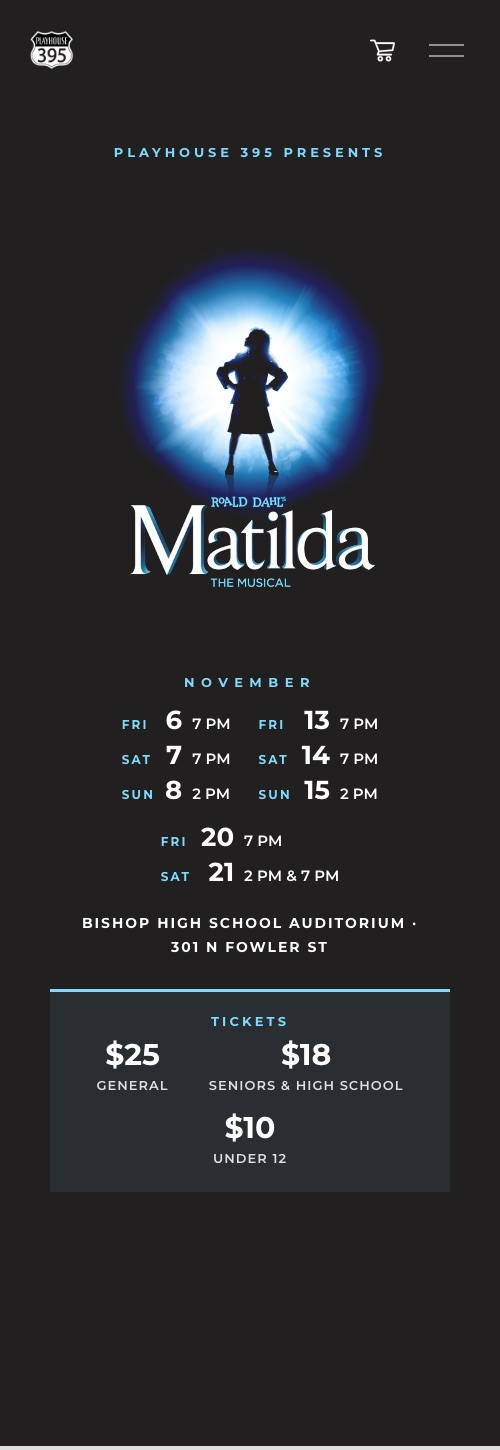
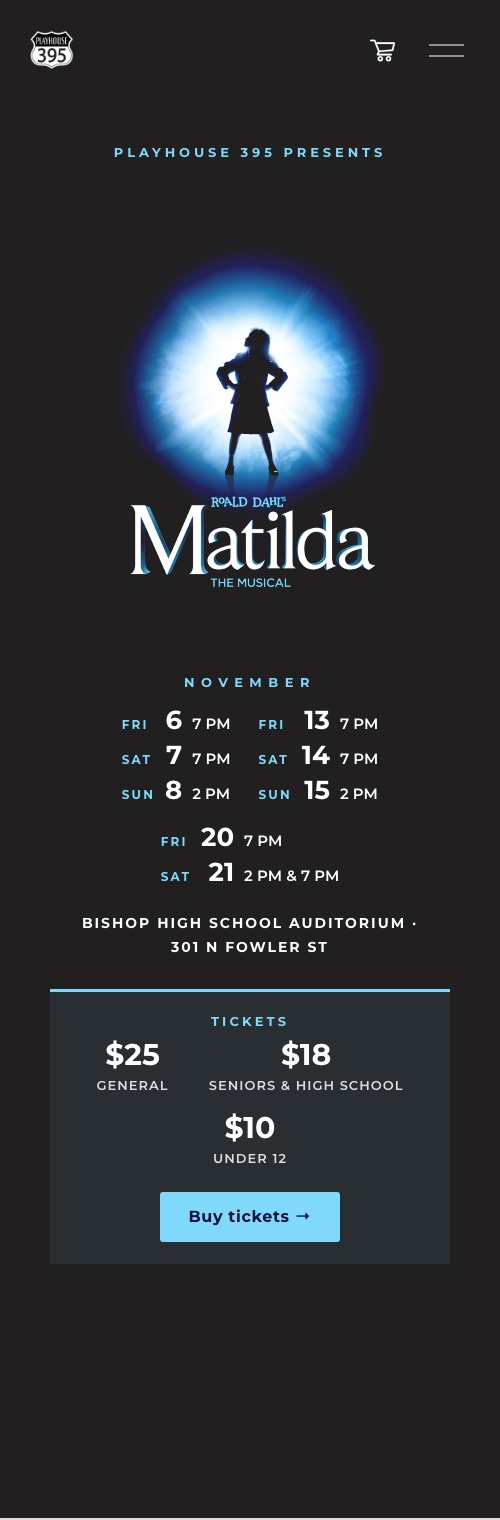
playhouse-395: a Buy tickets button on the Matilda page
The tickets section gains a button to wherever tickets are sold online, likely
Zeffy. The link is not decided yet, so the proposal says so and Still open asks
for it; the Matilda page shots are re-rendered with the button.

diff --git a/src/web/public/work/playhouse-395/matilda-publicity/index.html b/src/web/public/work/playhouse-395/matilda-publicity/index.html
@@ -125,7 +125,7 @@
       <li><b>The venue is Bishop High School Auditorium</b>, named the same way on the flyer and
         the website.</li>
       <li><b>Ticket prices are set:</b> $25, $18 for seniors and high school students, $10 under 12.</li>
-      <li><b>Still needed before anything is final:</b> where and how to buy tickets, and the credit lines our
+      <li><b>Still needed before anything is final:</b> the online ticket link, how seating works, and the credit lines our
         license requires. Section 4 has the list.</li>
     </ul>
   </div>
@@ -185,16 +185,17 @@
     </div>
     <div class="withphone">
       <figure>
-        <a href="img/matilda-proposed.jpg"><img src="img/matilda-proposed.jpg" alt="The proposed Matilda page on a computer" width="1280" height="2300"></a>
+        <a href="img/matilda-proposed.jpg"><img src="img/matilda-proposed.jpg" alt="The proposed Matilda page on a computer" width="1280" height="2400"></a>
         <figcaption>Proposed, on a computer</figcaption>
       </figure>
       <figure class="phone">
-        <a href="img/matilda-proposed-phone.jpg"><img src="img/matilda-proposed-phone.jpg" alt="The proposed Matilda page on a phone" width="500" height="1450"></a>
+        <a href="img/matilda-proposed-phone.jpg"><img src="img/matilda-proposed-phone.jpg" alt="The proposed Matilda page on a phone" width="500" height="1520"></a>
         <figcaption>Proposed, on a phone</figcaption>
       </figure>
     </div>
     <ul class="notes">
-      <li><b>The tickets section shows the prices.</b> Where to buy, how seating works, and how to pay
+      <li><b>The tickets section shows the prices and a &ldquo;Buy tickets&rdquo; button.</b> The button
+        goes to wherever tickets are sold online (likely Zeffy) once that page exists. Seating and paying
         at the door get added once they are decided.</li>
     </ul>
   </section>
@@ -207,7 +208,7 @@
     <table>
       <thead><tr><th>What</th><th>Why it matters</th><th>Who</th></tr></thead>
       <tbody>
-        <tr><td><span class="tag open">Decide</span>How to buy tickets</td><td>Prices are set ($25; $18 seniors and high school students; $10 under 12). Still to decide: where to buy (online, at the door, anywhere else), reserved or general seating, and whether the door takes cards. Also: what do middle schoolers (12&ndash;13) pay?</td><td class="who">Board</td></tr>
+        <tr><td><span class="tag open">Decide</span>Buying tickets online</td><td>Prices are set ($25; $18 seniors and high school students; $10 under 12). The Matilda page has a &ldquo;Buy tickets&rdquo; button that needs the online ticket page to link to, likely on Zeffy. Still to decide: reserved or general seating, and whether the door takes cards. Also: what do middle schoolers (12&ndash;13) pay?</td><td class="who">Board</td></tr>
         <tr><td><span class="tag open">Confirm</span>Credit lines from the license</td><td>Licensed shows usually have to print specific credits on publicity (authors, and a line about the licensing company), sometimes at a minimum size. The exact wording is in our license agreement.</td><td class="who">Whoever holds the license paperwork</td></tr>
         <tr><td><span class="tag">Then</span>Put it live</td><td>Upload the artwork to the website, paste in the new homepage card and Matilda page, and print the flyers.</td><td class="who">Jeff</td></tr>
       </tbody>
